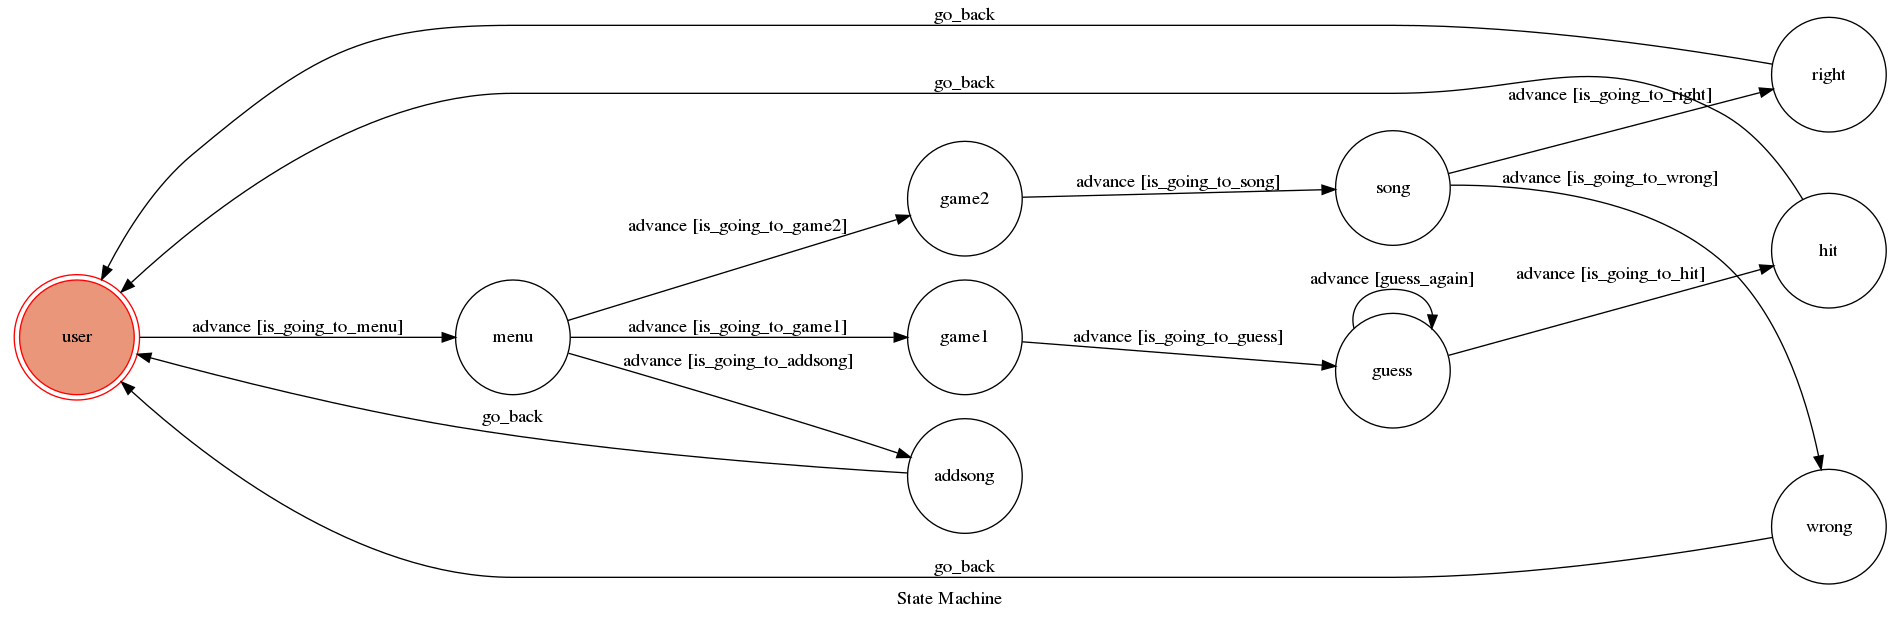
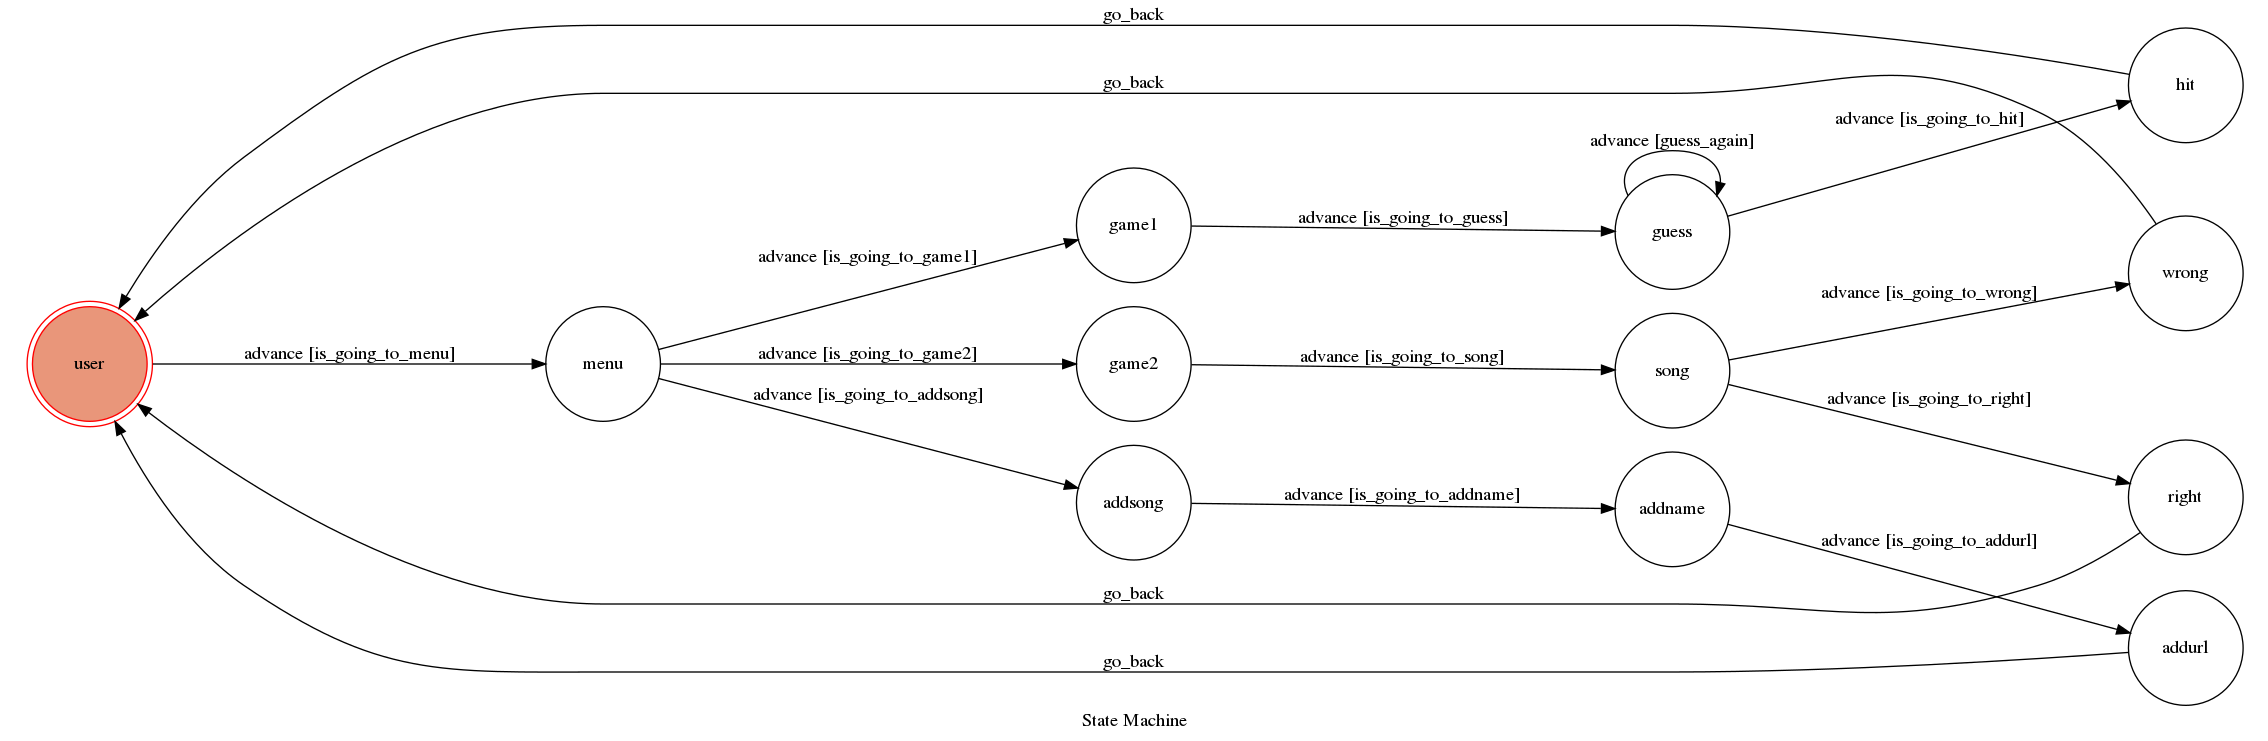
Addguess song and append songlist function

diff --git a/fsm.py b/fsm.py
@@ -4,6 +4,18 @@ from utils import send_text_message
 from utils import send_menu
 from utils import send_image
 from utils import send_audio
+from utils import push_message
+import sqlite3
+'''
+conn = sqlite3.connect('example.db')
+cursor = conn.cursor()
+# Insert a row of data
+cursor.execute("INSERT INTO stocks VALUES ('2006-01-05','BUY','RHAT',100,35.14)")
+conn.commit()
+conn.close()
+'''
+
+
 finalnum=0
 highest=100
 lowest=1
@@ -12,7 +24,7 @@ songnum=0
 songlist=["點水","好不好","追光者"]
 songurl=["https://k007.kiwi6.com/hotlink/iyoge2q5gp/mp3", #點水
         "https://k007.kiwi6.com/hotlink/msuiwqghhk/mp3", #好不好
-        "https://hao.haolingsheng.com/ring/000/985/6da0d4255bd1d84d71a18ed859a7dac6.mp3" #追光者
+        "https://k007.kiwi6.com/hotlink/5fuwirarug/mp3" #追光者
         ]
 class TocMachine(GraphMachine):
     def __init__(self, **machine_configs):
@@ -29,7 +41,17 @@ class TocMachine(GraphMachine):
     def is_going_to_game2(self, event):
         text = event.message.text
         return text == "game2"
+
+    def is_going_to_addsong(self, event):
+        text = event.message.text
+        return text == "addsong"
+
+    def is_going_to_addname(self, event):
+        return True   
     
+    def is_going_to_addurl(self, event):
+        return True
+
     def is_going_to_guess(self, event):
         return True
 
@@ -81,6 +103,39 @@ class TocMachine(GraphMachine):
     def on_exit_menu(self, event):
         print("Leaving guess")
 
+    def on_enter_addsong(self, event):
+        print("I'm entering addsong")
+        reply_token = event.reply_token
+        send_text_message(reply_token,'請遵守下列規則:\n輸入正確歌曲名稱,\n歌曲url需為https開頭的mp3連結\nEX:https://www.sample-videos.com/audio/mp3/crowd-cheering.mp3\n\n請輸入歌曲名')
+
+    def on_exit_addsong(self, event):
+        print("Leaving addsong")
+
+    def on_enter_addname(self, event):
+        print("I'm entering addname")
+        text = event.message.text
+        global songlist
+        songlist.append(text)
+        reply_token = event.reply_token
+        send_text_message(reply_token,'請輸入歌曲連結')
+
+    def on_exit_addname(self, event):
+        print("Leaving addname")
+
+    def on_enter_addurl(self, event):
+        print("I'm entering addurl")
+        text = event.message.text
+        global songurl
+        songurl.append(text)
+        self.go_back()
+        reply_token = event.reply_token
+        send_text_message(reply_token,'添加歌曲成功')
+        id=event.source.user_id
+        push_message(id,"再次輸入menu選取你要的功能")
+
+    def on_exit_addurl(self):
+        print("Leaving addurl")
+
     def on_enter_hit(self, event):
         global highest
         global lowest
@@ -92,6 +147,8 @@ class TocMachine(GraphMachine):
         highest=100
         lowest=1
         guess=0
+        id=event.source.user_id
+        push_message(id,"再次輸入menu選取你要的功能")
         self.go_back()
 
     def on_exit_hit(self):
@@ -120,11 +177,13 @@ class TocMachine(GraphMachine):
         global songlist
         print("I'm entering game2")
         reply_token = event.reply_token
-        songnum=randint(0,2)
-        send_text_message(reply_token, "GAME2 START"+"\n"+str(songnum)+songlist[songnum]+"輸入任意鍵開始遊戲:")
+        songnum=randint(0,len(songlist))
+        send_text_message(reply_token,"GAME2 START"+"\n"+str(songlist)+songlist[songnum]+"輸入任意鍵開始遊戲:")
+        self.go_back()
 
     def on_exit_game2(self, event):
         print("Leaving game2")
+        
 
     def on_enter_guess(self, event):
         print("I'm entering guess")
@@ -148,6 +207,8 @@ class TocMachine(GraphMachine):
         print("I'm entering right")
         reply_token = event.reply_token
         send_text_message(reply_token,"you got it!")
+        id=event.source.user_id
+        push_message(id,"再次輸入menu選取你要的功能")
         self.go_back()
 
     def on_exit_right(self):
@@ -158,6 +219,8 @@ class TocMachine(GraphMachine):
         print("I'm entering right")
         reply_token = event.reply_token
         send_text_message(reply_token,"錯了 這是"+songlist[songnum])
+        id=event.source.user_id
+        push_message(id,"再次輸入menu選取你要的功能")
         self.go_back()
 
     def on_exit_wrong(self):

diff --git a/app.py b/app.py
@@ -6,7 +6,7 @@ from dotenv import load_dotenv
 from linebot import LineBotApi, WebhookParser
 from linebot.exceptions import InvalidSignatureError
 from linebot.models import MessageEvent, TextMessage, TextSendMessage
-
+from linebot import LineBotApi
 from fsm import TocMachine
 from utils import send_text_message
 from utils import send_menu
@@ -15,7 +15,7 @@ from utils import send_audio
 load_dotenv()
 
 machine = TocMachine(
-    states=["user", "menu", "game1","guess","hit","game2","song","right","wrong","addsong"],
+    states=["user", "menu", "game1","guess","hit","game2","song","right","wrong","addsong","addname","addurl"],
     transitions=[
         {
             "trigger": "advance",
@@ -78,8 +78,20 @@ machine = TocMachine(
             "conditions": "is_going_to_right",
         },
         {
+            "trigger": "advance",
+            "source": "addsong",
+            "dest": "addname",
+            "conditions": "is_going_to_addname",
+        },
+        {
+            "trigger": "advance",
+            "source": "addname",
+            "dest": "addurl",
+            "conditions": "is_going_to_addurl",
+        },
+        {
             "trigger": "go_back", 
-            "source": ["hit","right","wrong","addsong"],
+            "source": ["hit","right","wrong","addurl"],
             "dest": "user"
         },
         

diff --git a/utils.py b/utils.py
@@ -5,6 +5,9 @@ from linebot.models import *
 
 channel_access_token = os.getenv("LINE_CHANNEL_ACCESS_TOKEN", None)
 
+def push_message(id,message):
+    line_bot_api = LineBotApi(channel_access_token)
+    line_bot_api.push_message(id,TextSendMessage(text=message))
 
 def send_text_message(reply_token, text):
     line_bot_api = LineBotApi(channel_access_token)
